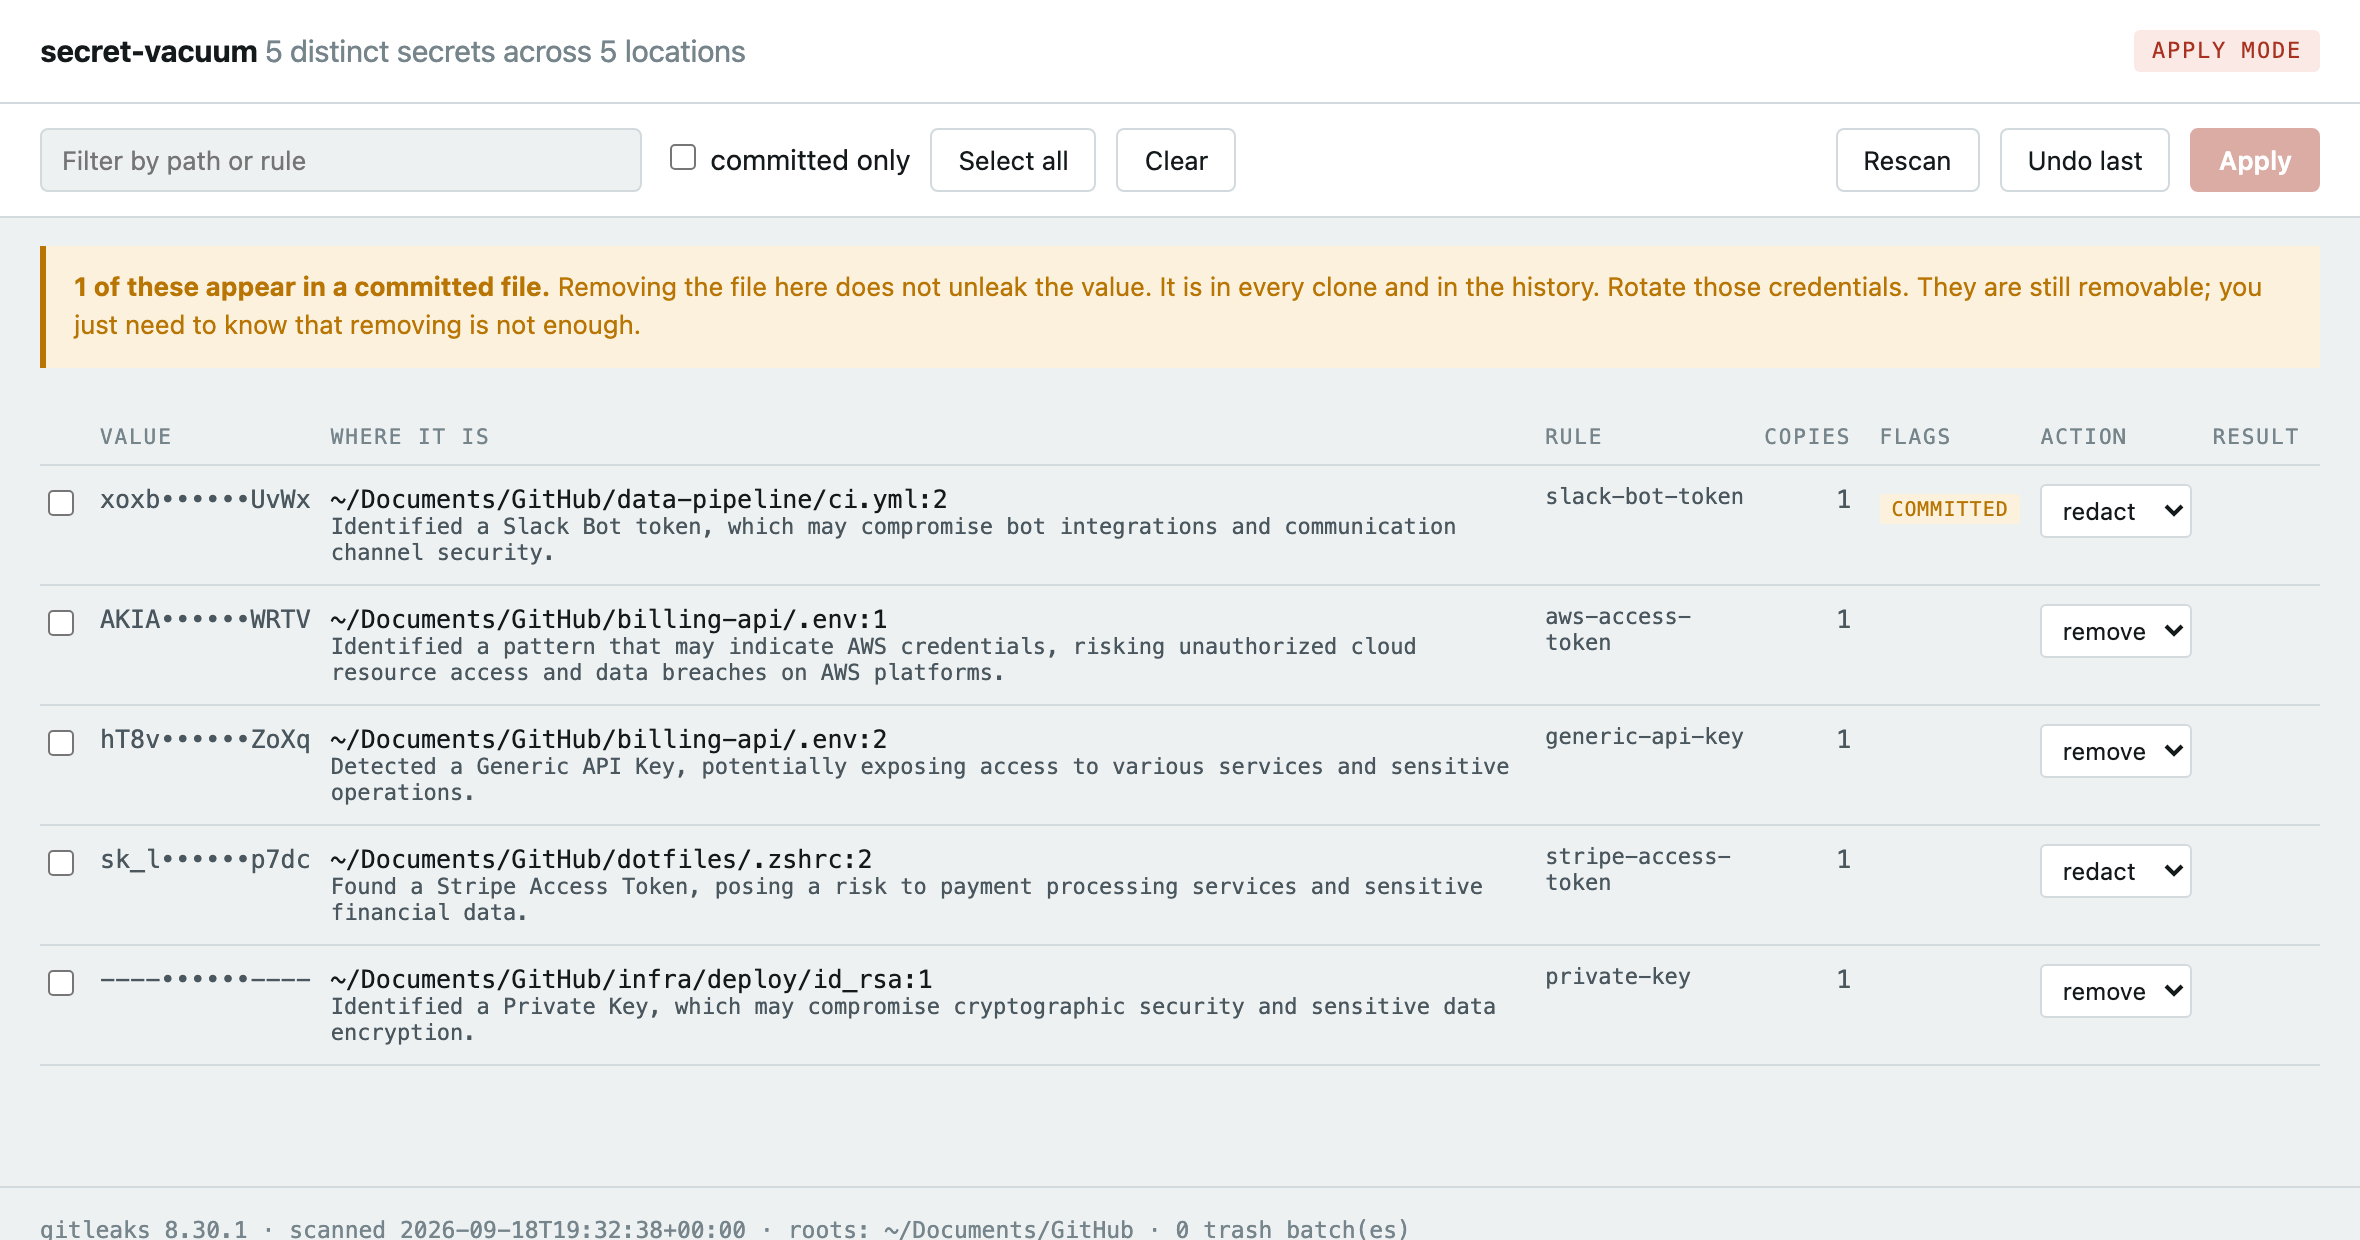
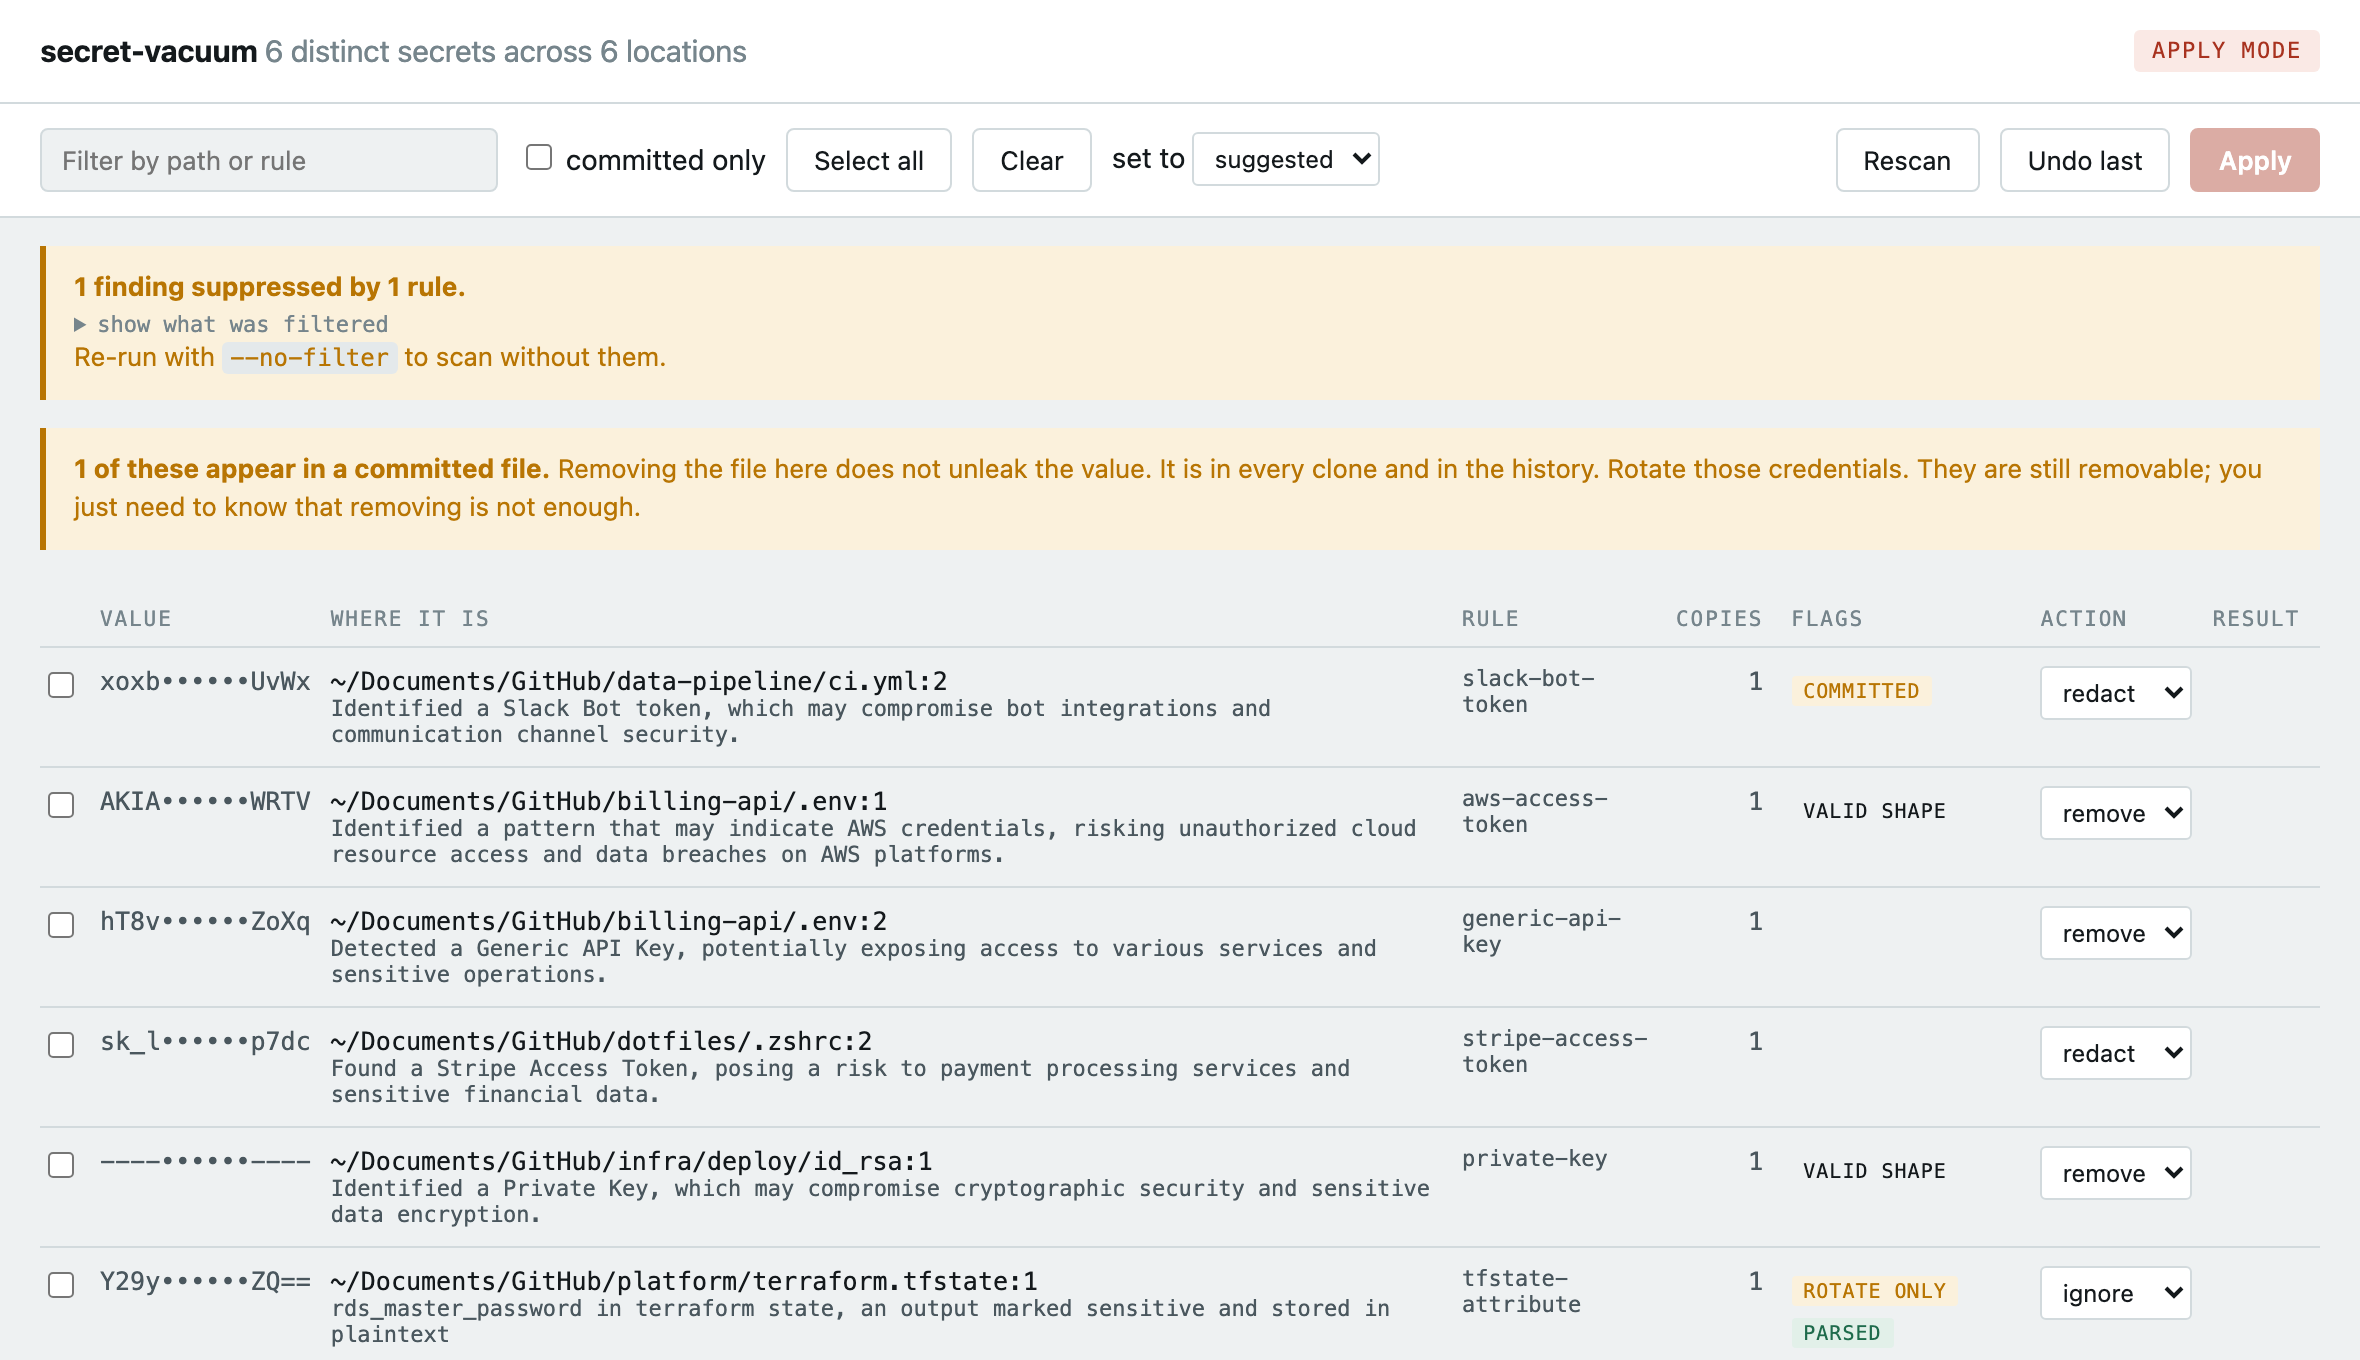
Fix two UI defects the regenerated screenshot exposed
An empty #note element still matched the base .note rule, so every page
carried a stray bordered bar under the banners. And Group.suggested never
returned "ignore", so a terraform state row rendered with redact preselected
while redact was disabled: the dropdown showed an action the server would
refuse. Finding.suggested had been fixed and the grouped row the UI actually
renders had not.

The README screenshot is regenerated from a fixture that now includes a
rotate-only state file, since that is the clearest single picture of what
changed. 81 unit tests, 47 Playwright checks.

diff --git a/ui.html b/ui.html
@@ -60,7 +60,8 @@
   .tag.dead{background:var(--sunk);color:var(--faint)}
   .tag.rotate{background:var(--hazard-bg);color:var(--hazard)}
   .tag.schema{background:var(--safe-bg);color:var(--safe)}
-  .note:not(:empty){font:12px var(--sans);color:var(--soft);margin:0 0 8px}
+  .note:empty{display:none}
+  #note:not(:empty){font:12px var(--sans);color:var(--soft);margin:0 0 8px}
   select{font:12px var(--sans);padding:4px 6px;border:1px solid var(--rule);border-radius:3px;
     background:var(--surface);color:var(--ink)}
   .note{background:var(--hazard-bg);color:var(--hazard);border-left:3px solid var(--hazard);

diff --git a/test_secret_vacuum.py b/test_secret_vacuum.py
@@ -1360,6 +1360,9 @@ def test_terraform_state_is_reported_but_never_edited(tmp_path: Path):
     f = finding(str(state), FAKE_STRIPE)
     assert not f.editable and not f.removable
     assert f.suggested == "ignore"
+    # and the grouped row the UI actually renders, which had its own default
+    g = sv.group_findings([f])[0]
+    assert not g.editable and g.suggested == "ignore", g.public()["suggested"]
     before = state.read_text()
     for action in ("remove", "redact"):
         out = act(action, f)

diff --git a/secret_vacuum.py b/secret_vacuum.py
@@ -330,6 +330,8 @@ class Group:
 
     @property
     def suggested(self) -> str:
+        if not self.editable:
+            return "ignore"
         return "remove" if all(m.suggested == "remove" for m in self.members) else "redact"
 
     def public(self) -> dict:
